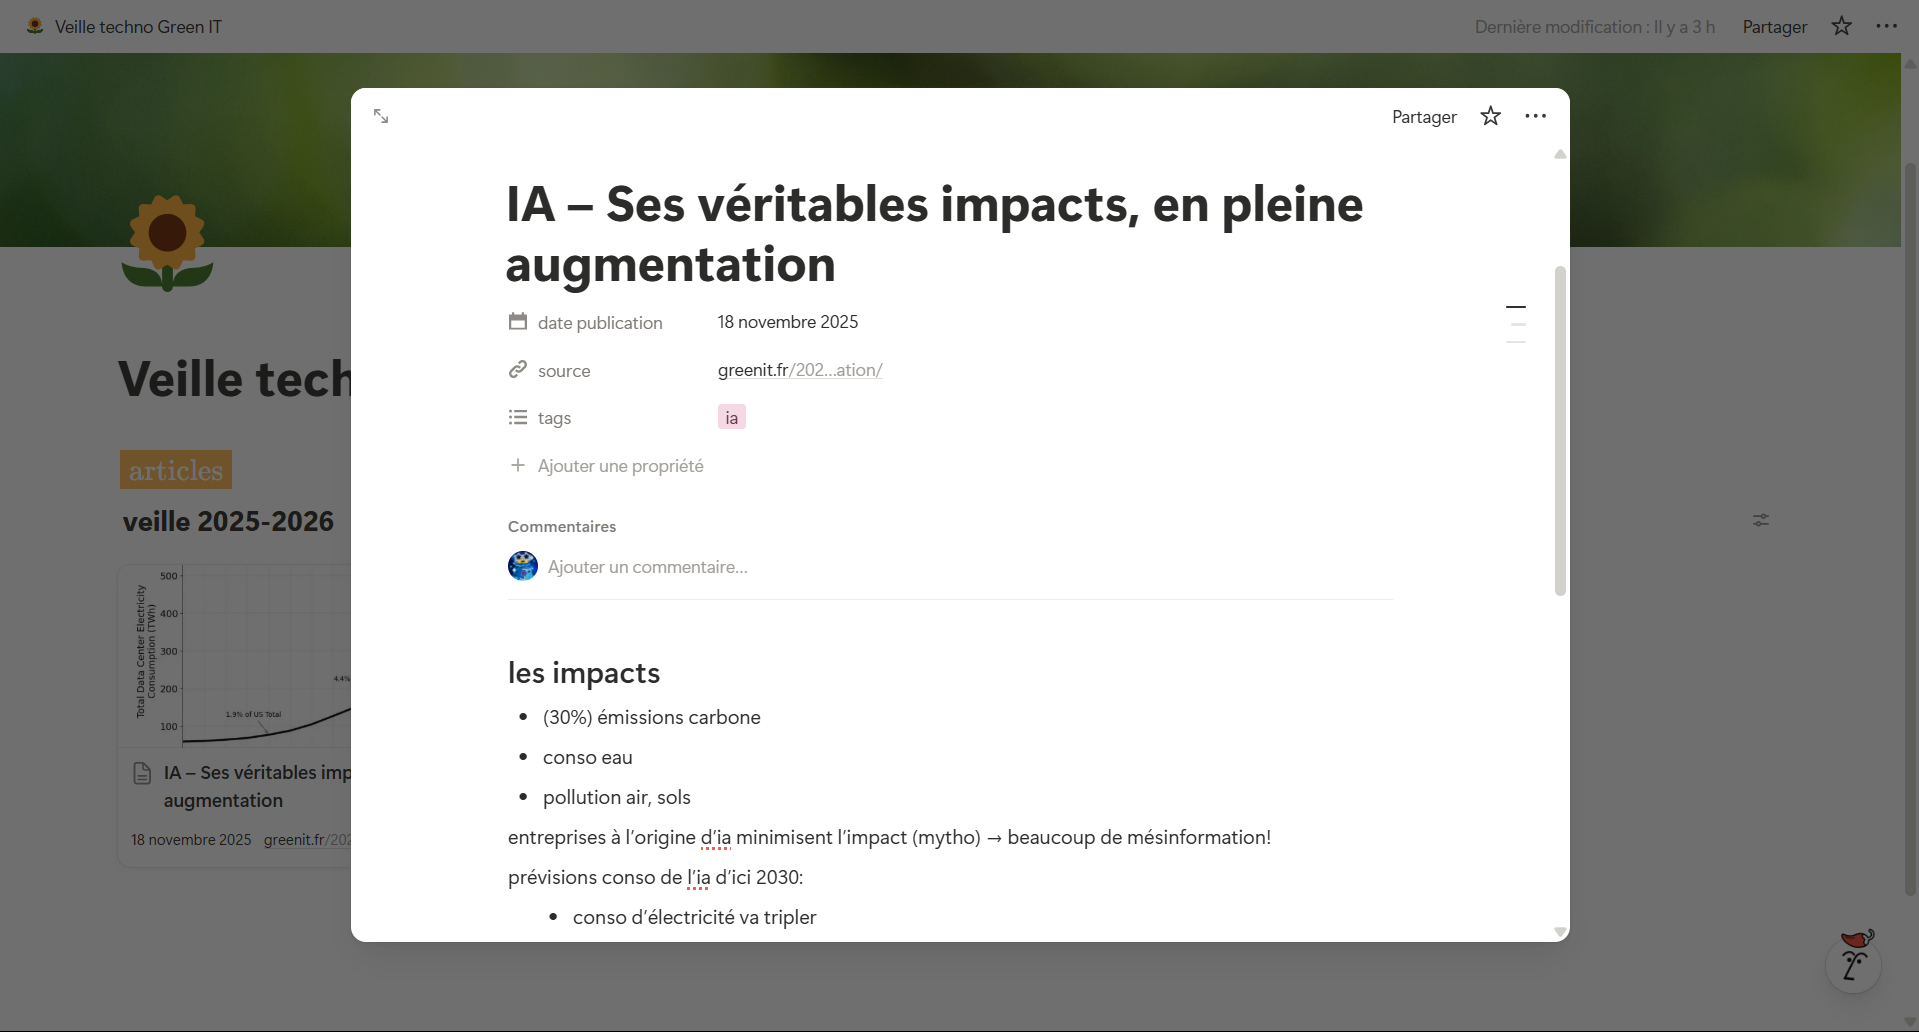
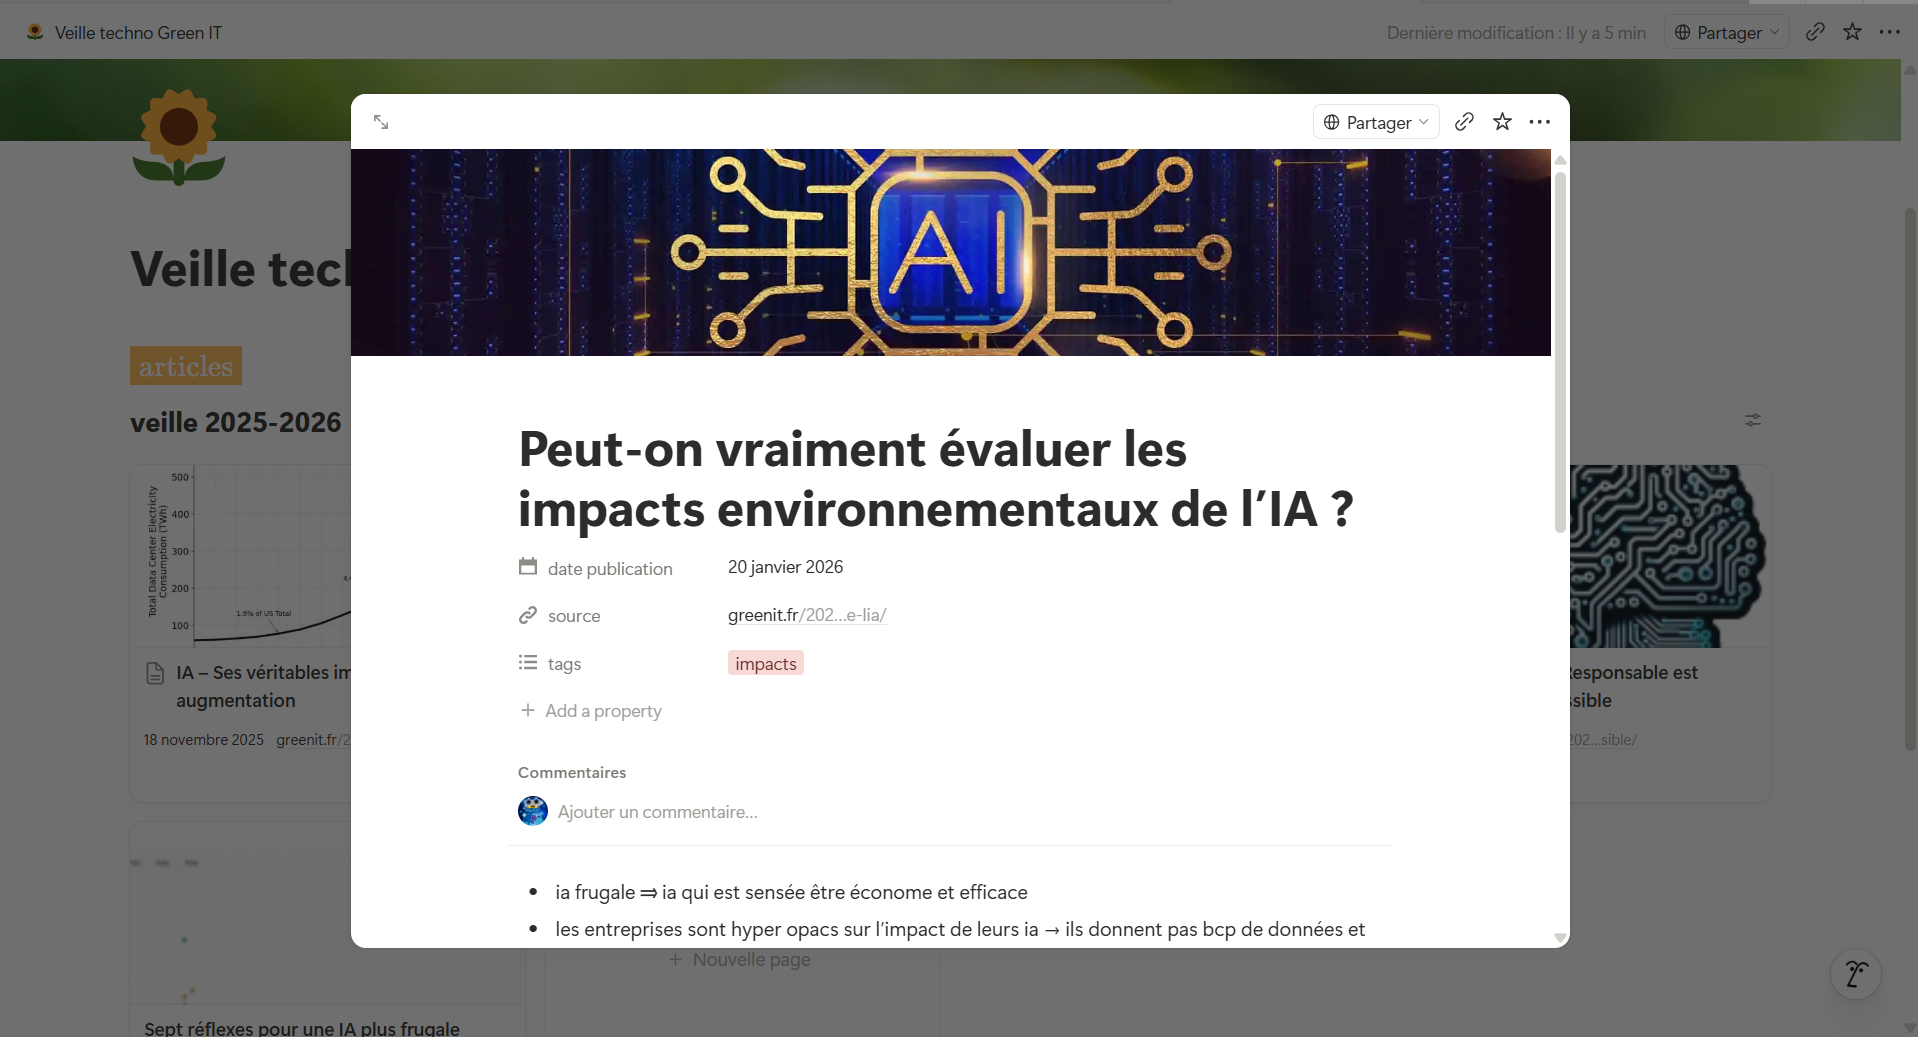
maj de la veille info

diff --git a/vues/pages-cartes/veille.html b/vues/pages-cartes/veille.html
@@ -5,38 +5,63 @@
         <div class="grille-2">
             <div>
                 <h2>Le Green IT</h2>
-                <br><br>
                 <p>
-                    J'ai choisi le thème de l'informatique verte (Green IT) car l'écologie est un sujet
-                    qui me semble important à prendre en compte quand on connaît l'impact des technologies sur l'environnement.
+                    La veille informatique consiste à se tenir au courant des avancées technologiques dans le domaine.
+                    J'ai utilisé pour cela l'outil <b>Feedly</b>, qui répertorie différents articles récents sur le sujet,
+                    ainsi que <b>Notion</b> pour organiser les nouvelles.
                     <br>
-                    J'ai utilisé l'outil Feedly pour me tenir à jour des nouveaux articles sur le sujet, et Notion pour organiser les nouvelles.
+                    J'ai choisi le thème de <b>l'informatique verte</b> (Green IT) car l'écologie est un sujet
+                    qui me semble important à prendre en compte quand on connaît l'impact des technologies sur notre planète,
+                    notamment avec l'utilisation en masse de <b>l'IA</b> ces dernières années et de ses conséquences épouvantables
+                    sur l'environnement.
+                    <br><br>
+                    Outre les nombreux impacts sociaux générés par les IAs, on compte aussi beaucoup d'<b>impacts écologiques</b>.
+                    En effet, les LLMs consomment beaucoup d'électricité, or la plupart des datacenters sont aux USA où l'énergie est majoritairement fossile.
+                    On produit ainsi plus d'émissions de carbone, ce qui pollue l'air et les sols.
+                    De plus, l'IA nécessite des GPUS qui sont fabriqués à partir de métaux lourds, puis qu'on remplace et donc jette tous les 2 ans.
+                    Enfin, l'IA consomme énormément d'eau, ce qui est problématique quand on connaît la difficulté du monde à gérer l'eau aujourd'hui.
+                    <br>
+                    Pourtant, les fournisseurs d'IA continuent de minimiser les impacts et restent opaques sur ces points.
+                    Malheureusement, d'après les prédictions, les chiffres devraient empirer dans les années à venir, ce qui ralentit la transition énergétique.
+                    <br><br>
+                    <b>Malgré tout, nous pouvons toujours agir. Comment ?</b>
+                    <br>
+                    Par de petites actions, comme se passer des IAs quand on le peut, mais aussi en faisant du <b>Green Prompting</b>.
+                    Il s'agit d'une liste de bonnes pratiques :
+                    <br>
+                    - ne faire qu'un seul prompt détaillé et précis plutôt que beaucoup de petites demandes
+                    <br>
+                    - éviter d'utiliser un jargon trop technique ou des acronymes
+                    <br>
+                    - ne pas demander d’effectuer des recherches sur internet
+                    <br>
+                    - ouvrir une nouvelle conversation pour chaque nouveau sujet, pour ne pas que l'IA retraite l'intégralité de la conversation précédente.
+                    <br>
+                    Nous pouvons aussi choisir une IA dont les <b>datacenters sont basés en France</b>. En effet, l'électricité en France produit 10 fois
+                    moins d'émissions de carbone que celle aux USA.
+                    En choisissant quelle IA utiliser, il est bien aussi de garder en tête que souvent de petits modèles suffisent.
+                    Par exemple, ChatGPT utilise 2 000 M de paramètres (ou tokens) quand la plupart des utilisateurs n'en ont pas besoin de plus de 10 M.
+                    Enfin, il existe des calculatrices comme celle d'<b><a id="lien-texte" href="https://huggingface.co/spaces/genai-impact/ecologits-calculator" target="_blank">EcoLogits</a></b> qui permet de comparer les IAs du marché.
+                    <br><br>
+                    En conclusion, grâce à cette veille informatique j'ai compris les nombreux dégâts que l'IA cause, mais aussi comment essayer de les réduire à petite échelle.
                 </p>
-                <br>        
-                    
+                <br><br>
                 <a href="https://www.notion.so/Veille-techno-Green-IT-2c0937f79512805ab78dc8a327a1faf5?source=copy_link" target="_blank">Lien vers la page Notion</a>
-
-                <br> <br>
-                <p>
-                    En conclusion, j'ai appris que depuis la popularisation de l'IA, la consommation d'énergie, d'eau et la pollution de cette technologie a augmenté considérablement.
-                </p>
             </div>
 
             <div>
-            <img src="assets/images/veille/logo_feedly.png" alt="Logo Feedly" width="125">
-            <img class="thumbnail" src="assets/images/veille/feedly.png" alt="Accueil Feedly">
-            </div>
-        </div>
-
-        <img src="assets/images/veille/logo_notion.png" alt="Logo Notion" width="100">
-
-        <div class="grille-2">
-            <div>
+                <img src="assets/images/veille/logo_feedly.png" alt="Logo Feedly" width="125">
+                <img class="thumbnail" src="assets/images/veille/feedly.png" alt="Accueil Feedly">
+                <br>
+                <p>Accueil de la page Feedly</p>
+                <br><br>
+                <img src="assets/images/veille/logo_notion.png" alt="Logo Notion" width="100">
                 <img class="thumbnail" src="assets/images/veille/notion.png" alt="Page Notion d'organisation veille">
-            </div>
-
-            <div>
+                <br>
+                <p>Page Notion d'organisation de la veille</p>
+                <br><br>
                 <img class="thumbnail" src="assets/images/veille/article_notion.png" alt="Rendu d'article sur Notion">
+                <p>Exemple de rendu d'article sur Notion</p>
             </div>
         </div>
     </div>

diff --git a/assets/css/style.css b/assets/css/style.css
@@ -261,6 +261,18 @@ img {
     transition: 0.4s ease;
 }
 
+#lien-texte {
+    background-color: transparent;
+    color: var(--rose-fonce);
+    padding: 0;
+}
+
+#lien-texte:hover {
+    background-color: transparent;
+    color: var(--vert-clair-navbar);
+    padding: 0;
+}
+
 .card a:hover {
     background-color: var(--vert-clair);
     color: var(--text-color);
